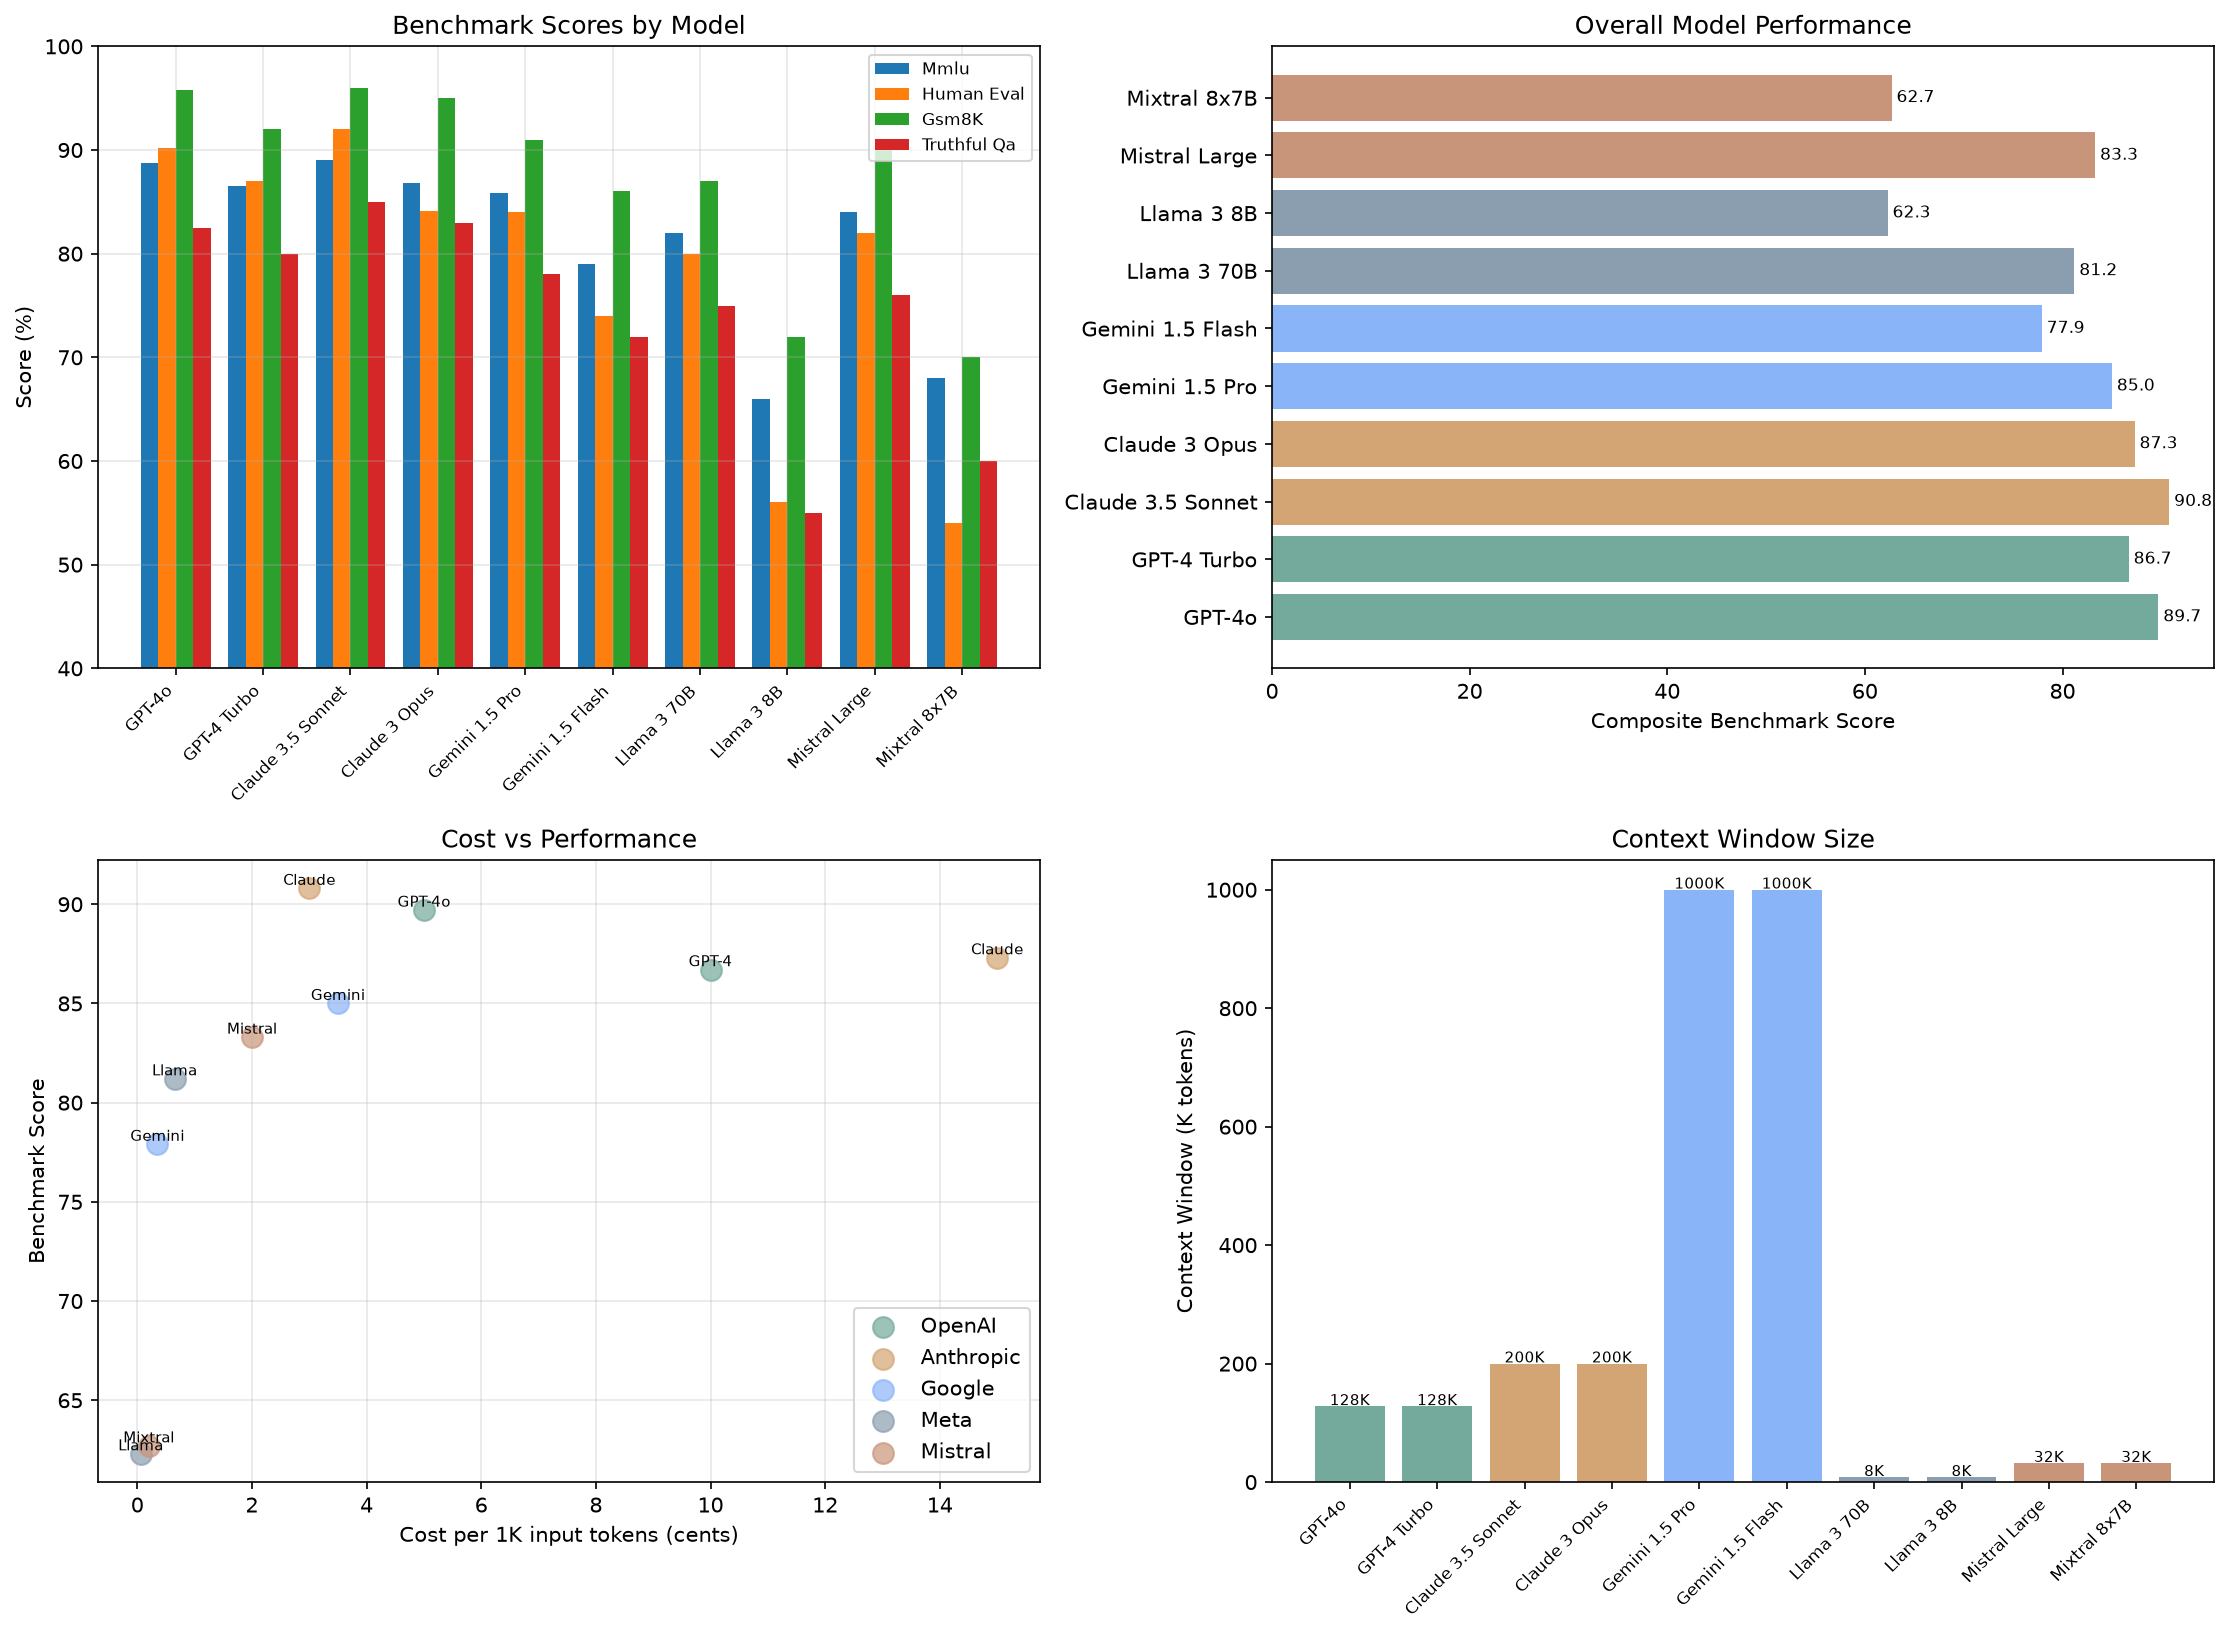
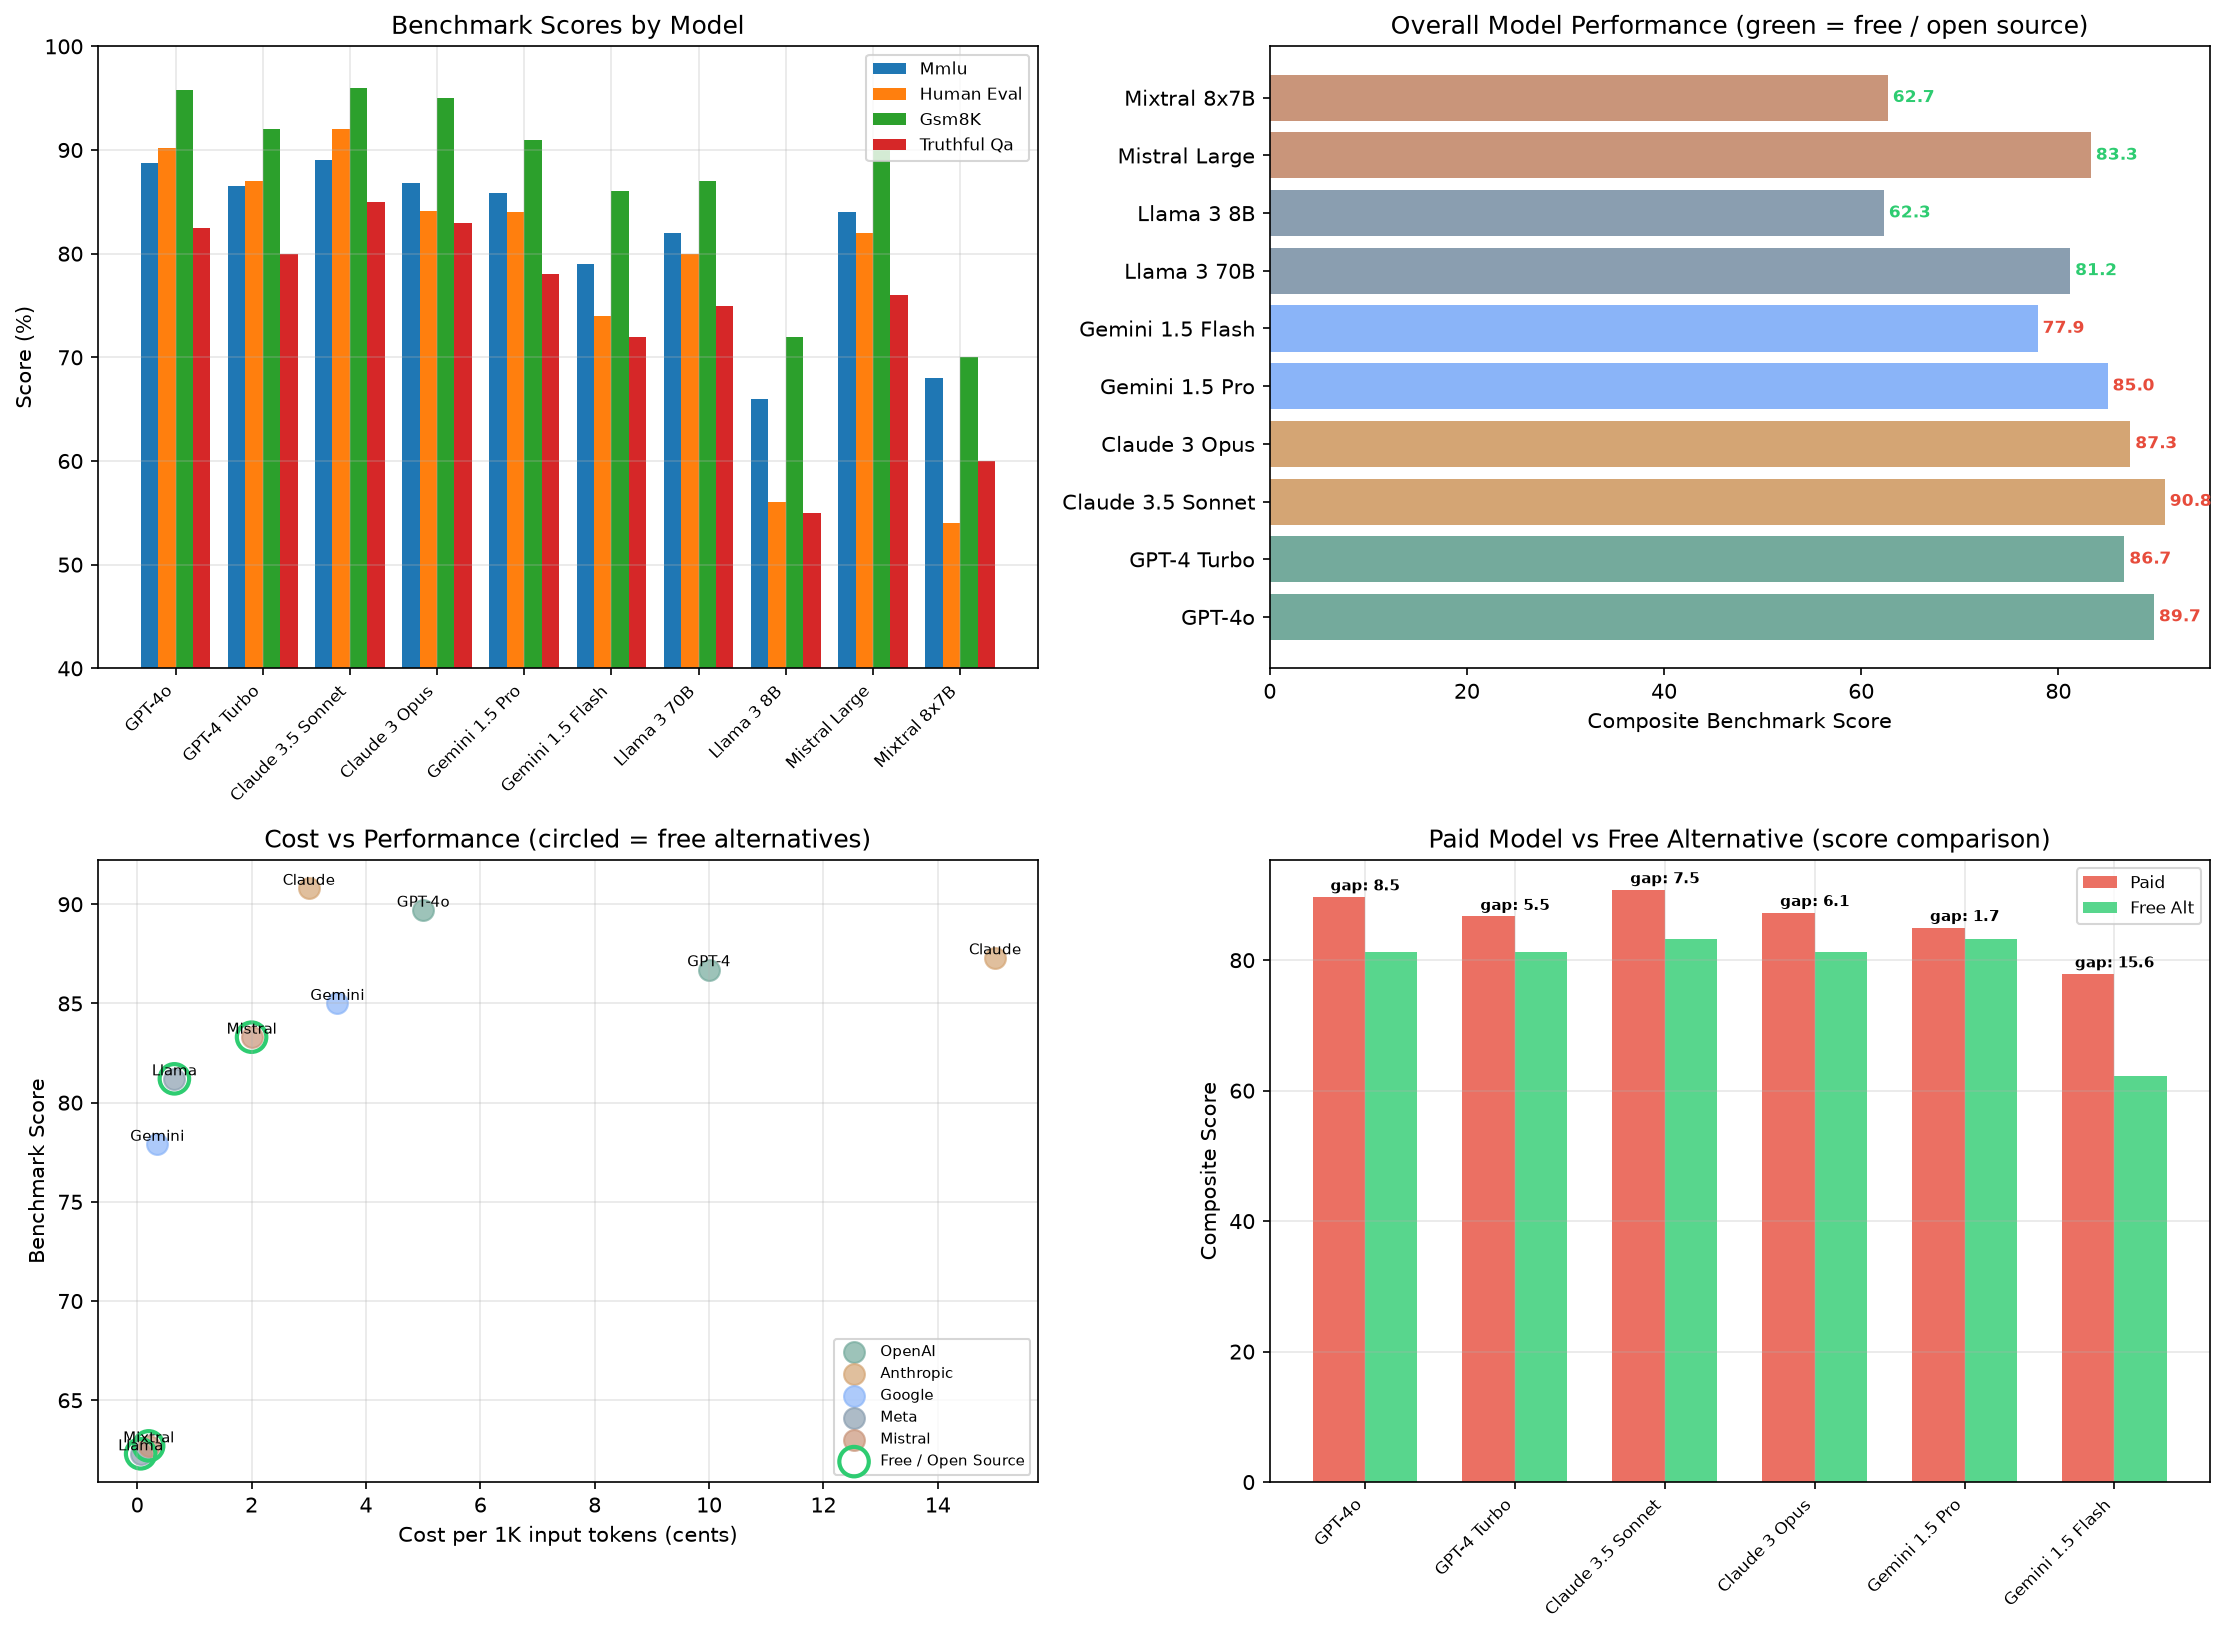
Add paid vs free alternative mapping for every model

diff --git a/ai_model_comparison.py b/ai_model_comparison.py
@@ -1,7 +1,8 @@
 """
 AI Model Comparison - Demo Project
 Compares popular LLMs on benchmarks, cost, speed, and capabilities.
-Data reflects publicly available benchmark scores as of 2025-2026.
+Includes paid vs free alternatives for every use case.
+Data reflects publicly available benchmark scores as of 2024-2025.
 """
 
 import pandas as pd
@@ -31,7 +32,56 @@ models = pd.DataFrame({
     'open_source': [False, False, False, False, False, False, True, True, True, True],
 })
 
-# Calculate composite score (weighted average of benchmarks)
+# Free alternative mapping for each paid model
+free_alternatives = {
+    'GPT-4o': {
+        'alternative': 'Llama 3 70B',
+        'savings_pct': 97,
+        'trade_off': 'Lower creative writing quality. Smaller context window (8K vs 128K).',
+        'best_for': 'General Q&A, coding, data analysis where budget matters.'
+    },
+    'GPT-4 Turbo': {
+        'alternative': 'Llama 3 70B',
+        'savings_pct': 94,
+        'trade_off': 'Slightly lower accuracy on complex reasoning. No vision support.',
+        'best_for': 'Batch processing, internal tools, prototyping.'
+    },
+    'Claude 3.5 Sonnet': {
+        'alternative': 'Mistral Large',
+        'savings_pct': 47,
+        'trade_off': 'Lower coding accuracy (92 vs 82 HumanEval). Smaller context window.',
+        'best_for': 'Document analysis, multilingual tasks, self-hosted apps.'
+    },
+    'Claude 3 Opus': {
+        'alternative': 'Llama 3 70B',
+        'savings_pct': 96,
+        'trade_off': 'Lower benchmark scores across the board. No vision.',
+        'best_for': 'High volume text generation, data extraction.'
+    },
+    'Gemini 1.5 Pro': {
+        'alternative': 'Mistral Large',
+        'savings_pct': 33,
+        'trade_off': 'Loses 1M token context window (drops to 32K). Lower multilingual scores.',
+        'best_for': 'Standard document processing, RAG pipelines.'
+    },
+    'Gemini 1.5 Flash': {
+        'alternative': 'Llama 3 8B',
+        'savings_pct': 83,
+        'trade_off': 'Lower accuracy on math and coding. Smaller context.',
+        'best_for': 'Simple chatbots, content classification, high speed needs.'
+    },
+}
+
+def find_free_alternative(model_name, is_open_source):
+    if is_open_source:
+        return None
+    return free_alternatives.get(model_name, None)
+
+models['free_alternative'] = models.apply(
+    lambda row: find_free_alternative(row['model'], row['open_source']), axis=1
+)
+
+# Calculate composite score
 weights = {'mmlu': 0.25, 'human_eval': 0.30, 'gsm8k': 0.25, 'truthful_qa': 0.20}
 models['benchmark_score'] = (
     models['mmlu'] * weights['mmlu'] +
@@ -40,7 +90,7 @@ models['benchmark_score'] = (
     models['truthful_qa'] * weights['truthful_qa']
 ).round(1)
 
-# Categorize by tier
+# Tier assignment
 def assign_tier(score):
     if score >= 88:
         return 'Tier 1: Best in Class'
@@ -53,7 +103,7 @@ def assign_tier(score):
 
 models['tier'] = models['benchmark_score'].apply(assign_tier)
 
-# Categorize best use case
+# Use case recommendations
 def recommend_use_case(row):
     reasons = []
     if row['context_window'] >= 100000:
@@ -69,6 +119,29 @@ def recommend_use_case(row):
     return ' | '.join(reasons)
 
 models['recommended_for'] = models.apply(recommend_use_case, axis=1)
+
+# Paid vs free comparison table
+paid_free_rows = []
+for _, row in models.iterrows():
+    alt = row['free_alternative']
+    if alt:
+        alt_row = models[models['model'] == alt['alternative']]
+        if len(alt_row) > 0:
+            alt_model = alt_row.iloc[0]
+            paid_free_rows.append({
+                'paid_model': row['model'],
+                'paid_score': row['benchmark_score'],
+                'paid_cost': row['cost_input_1k'],
+                'free_model': alt['alternative'],
+                'free_score': alt_model['benchmark_score'],
+                'free_cost': alt_model['cost_input_1k'],
+                'savings_pct': alt['savings_pct'],
+                'score_gap': round(row['benchmark_score'] - alt_model['benchmark_score'], 1),
+                'trade_off': alt['trade_off'],
+                'best_for': alt['best_for'],
+            })
+
+paid_free_df = pd.DataFrame(paid_free_rows)
 
 # Visualization
 fig, axes = plt.subplots(2, 2, figsize=(15, 11))
@@ -91,15 +164,16 @@ axes[0, 0].legend(fontsize=8)
 axes[0, 0].set_ylim(40, 100)
 axes[0, 0].grid(True, alpha=0.3)
 
-# Plot 2: Composite score
+# Plot 2: Composite score with paid/free markers
 bars = axes[0, 1].barh(models['model'], models['benchmark_score'], color=model_colors)
 axes[0, 1].set_xlabel('Composite Benchmark Score')
-axes[0, 1].set_title('Overall Model Performance')
-for bar, val in zip(bars, models['benchmark_score']):
+axes[0, 1].set_title('Overall Model Performance (green = free / open source)')
+for bar, val, is_free in zip(bars, models['benchmark_score'], models['open_source']):
+    label_color = '#2ecc71' if is_free else '#e74c3c'
     axes[0, 1].text(val + 0.5, bar.get_y() + bar.get_height()/2,
-        f'{val}', va='center', fontsize=8)
+        f'{val}', va='center', fontsize=8, color=label_color, fontweight='bold')
 
-# Plot 3: Cost vs Performance scatter
+# Plot 3: Cost vs Performance with free alternatives highlighted
 for provider in models['provider'].unique():
     subset = models[models['provider'] == provider]
     axes[1, 0].scatter(subset['cost_input_1k'] * 1000, subset['benchmark_score'],
@@ -108,27 +182,46 @@ for provider in models['provider'].unique():
         axes[1, 0].annotate(row['model'].split()[0],
             (row['cost_input_1k'] * 1000, row['benchmark_score']),
             fontsize=7, ha='center', va='bottom')
+
+# Highlight free alternatives on the scatter plot
+free_models = models[models['open_source'] == True]
+axes[1, 0].scatter(free_models['cost_input_1k'] * 1000, free_models['benchmark_score'],
+    s=200, facecolors='none', edgecolors='#2ecc71', linewidths=2, label='Free / Open Source')
 axes[1, 0].set_xlabel('Cost per 1K input tokens (cents)')
 axes[1, 0].set_ylabel('Benchmark Score')
-axes[1, 0].set_title('Cost vs Performance')
-axes[1, 0].legend()
+axes[1, 0].set_title('Cost vs Performance (circled = free alternatives)')
+axes[1, 0].legend(fontsize=7)
 axes[1, 0].grid(True, alpha=0.3)
 
-# Plot 4: Context window comparison
-bars2 = axes[1, 1].bar(models['model'], models['context_window'] / 1000, color=model_colors)
-axes[1, 1].set_xticklabels(models['model'], rotation=45, ha='right', fontsize=8)
-axes[1, 1].set_ylabel('Context Window (K tokens)')
-axes[1, 1].set_title('Context Window Size')
-for bar, val in zip(bars2, models['context_window']):
-    axes[1, 1].text(bar.get_x() + bar.get_width()/2, bar.get_height() + 2,
-        f'{val/1000:.0f}K', ha='center', fontsize=7)
+# Plot 4: Paid vs Free score comparison
+if len(paid_free_df) > 0:
+    x_pf = np.arange(len(paid_free_df))
+    width_pf = 0.35
+    axes[1, 1].bar(x_pf - width_pf/2, paid_free_df['paid_score'], width_pf,
+        label='Paid', color='#e74c3c', alpha=0.8)
+    axes[1, 1].bar(x_pf + width_pf/2, paid_free_df['free_score'], width_pf,
+        label='Free Alt', color='#2ecc71', alpha=0.8)
+    axes[1, 1].set_xticks(x_pf)
+    axes[1, 1].set_xticklabels(paid_free_df['paid_model'], rotation=45, ha='right', fontsize=8)
+    axes[1, 1].set_ylabel('Composite Score')
+    axes[1, 1].set_title('Paid Model vs Free Alternative (score comparison)')
+    axes[1, 1].legend(fontsize=8)
+    axes[1, 1].grid(True, alpha=0.3)
+    for i in range(len(paid_free_df)):
+        gap = paid_free_df.iloc[i]['score_gap']
+        axes[1, 1].text(i, max(paid_free_df.iloc[i]['paid_score'], paid_free_df.iloc[i]['free_score']) + 1,
+            f'gap: {gap:.1f}', ha='center', fontsize=7, fontweight='bold')
+else:
+    axes[1, 1].text(0.5, 0.5, 'No paid vs free comparison available',
+        ha='center', va='center', transform=axes[1, 1].transAxes)
+    axes[1, 1].set_title('Paid vs Free Alternative')
 
 plt.tight_layout()
 plt.savefig('ai_model_comparison.png', dpi=150, bbox_inches='tight')
 print('Saved: ai_model_comparison.png')
 
-# Print results
-print('\n--- AI MODEL COMPARISON (DEMO) ---')
+# Console output
+print('\n--- AI MODEL COMPARISON (PAID VS FREE) ---')
 print(f'Models analyzed: {len(models)}')
 print(f'\nPerformance Tiers:')
 for tier in ['Tier 1: Best in Class', 'Tier 2: Strong Performer', 'Tier 3: Solid Choice', 'Tier 4: Entry Level']:
@@ -138,17 +231,37 @@ for tier in ['Tier 1: Best in Class', 'Tier 2: Strong Performer', 'Tier 3: Solid
         print(f'  {tier}: {names}')
 
 print(f'\nBest overall (composite): {models.loc[models["benchmark_score"].idxmax(), "model"]} ({models["benchmark_score"].max()})')
+print(f'Best free alternative (composite): {free_models.loc[free_models["benchmark_score"].idxmax(), "model"]} ({free_models["benchmark_score"].max()})')
 print(f'Best value (score/cost): {models.loc[(models["benchmark_score"] / (models["cost_input_1k"] * 1000)).idxmax(), "model"]}')
 print(f'Longest context: {models.loc[models["context_window"].idxmax(), "model"]} ({models["context_window"].max():,} tokens)')
 print(f'Fastest: {models.loc[models["speed_tokens_per_sec"].idxmax(), "model"]} ({models["speed_tokens_per_sec"].max()} tok/s)')
+
+print('\n--- PAID MODEL VS FREE ALTERNATIVE ---')
+for _, row in models.iterrows():
+    print(f'\n{row["model"]} ({row["provider"]})')
+    print(f'  Cost: ${row["cost_input_1k"]*1000:.2f}/1K inputs | Score: {row["benchmark_score"]} | Open source: {row["open_source"]}')
+    alt = row['free_alternative']
+    if alt:
+        alt_data = models[models['model'] == alt['alternative']].iloc[0]
+        print(f'  >> FREE ALTERNATIVE: {alt["alternative"]} (${alt_data["cost_input_1k"]*1000:.2f}/1K inputs, score: {alt_data["benchmark_score"]})')
+        print(f'     Save {alt["savings_pct"]}% on API costs.')
+        print(f'     Score gap: {alt_data["benchmark_score"] - row["benchmark_score"]:+.1f} points.')
+        print(f'     Trade-off: {alt["trade_off"]}')
+        print(f'     Best use case for free: {alt["best_for"]}')
+    else:
+        print(f'  >> Already free / open source.')
 
 print('\n--- USE CASE RECOMMENDATIONS ---')
 for _, row in models.iterrows():
     print(f'\n{row["model"]} ({row["provider"]}):')
     print(f'  Tier: {row["tier"]}')
     print(f'  Best for: {row["recommended_for"]}')
-    print(f'  Open source: {row["open_source"]}')
 
+# Export
 models.to_csv('model_comparison_data.csv', index=False)
-print('\nExported: model_comparison_data.csv')
+if len(paid_free_df) > 0:
+    paid_free_df.to_csv('paid_vs_free_alternatives.csv', index=False)
+    print('\nExported: model_comparison_data.csv, paid_vs_free_alternatives.csv')
+else:
+    print('\nExported: model_comparison_data.csv')
 print('Done.')

diff --git a/README.md b/README.md
@@ -76,13 +76,36 @@ Done.
 | GSM8K | Grade school math problem solving | 25% |
 | TruthfulQA | Factuality and truthfulness | 20% |
 
+## Paid vs Free Alternatives
+
+Every paid model includes a recommended free / open source alternative. The engine maps each paid model to the closest free option based on capability similarity.
+
+### Mapping
+
+| Paid Model | Free Alternative | Saving | Score Gap | When to Use Free |
+|------------|-----------------|--------|-----------|------------------|
+| GPT-4o | Llama 3 70B | 97% | -8.5 | General Q&A, coding, data analysis on a budget |
+| GPT-4 Turbo | Llama 3 70B | 94% | -5.5 | Batch processing, internal tools, prototyping |
+| Claude 3.5 Sonnet | Mistral Large | 47% | -7.5 | Document analysis, self-hosted, multilingual |
+| Claude 3 Opus | Llama 3 70B | 96% | -6.1 | High volume text generation, data extraction |
+| Gemini 1.5 Pro | Mistral Large | 33% | -1.7 | Standard document processing, RAG pipelines |
+| Gemini 1.5 Flash | Llama 3 8B | 83% | -15.6 | Simple chatbots, classification, high speed |
+
+### Decision Framework
+
+- **Need maximum accuracy?** Use the paid model. The score gap matters for complex tasks.
+- **Building an internal tool?** Use the free alternative. Save 33-97% on API costs.
+- **Handling sensitive data?** Free = open source = self hosted. Data never leaves your servers.
+- **Processing high volume?** Free models cost pennies. Run millions of queries without breaking the bank.
+
 ## How It Works
 
 1. Model data is defined as a DataFrame with benchmark scores, cost, speed, and context window.
 2. A composite benchmark score is calculated using weighted averages.
 3. Models are grouped into performance tiers based on composite scores.
-4. Use case recommendations are generated based on model strengths.
-5. Four visualizations compare models across dimensions.
+4. Each paid model is mapped to a free alternative with trade-off analysis.
+5. Use case recommendations are generated based on model strengths.
+6. Five visualizations compare models across dimensions, including paid vs free.
 
 ## Results Summary
 